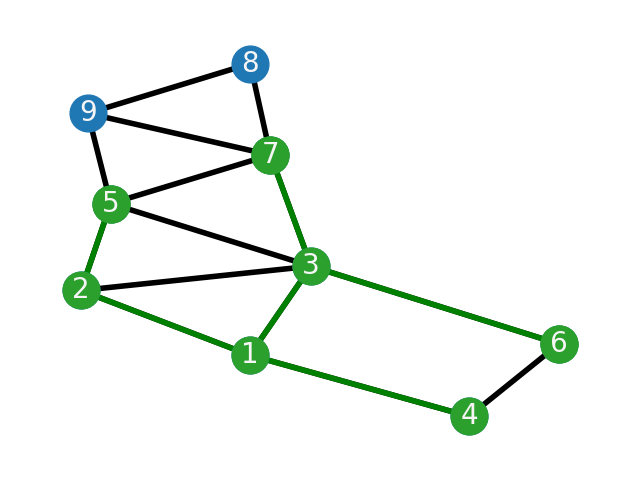
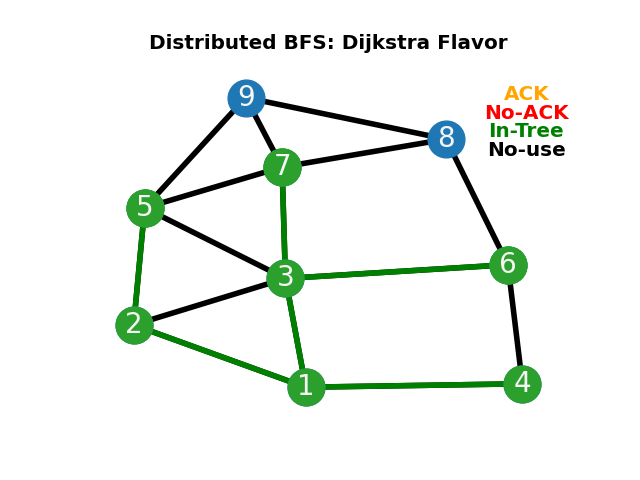
logs better

Changed region(s): [[0.0938, 0.0625, 0.9062, 0.9062], [0.7188, 0.3438, 0.75, 0.4375]]

diff --git a/utils.py b/utils.py
@@ -8,13 +8,8 @@ import networkx as nx
 import os
 import globals
 
-# to-do add reading from file
-# add algorithms, which would color nodes
-# delete or replace img after changing color; maybe a function
-# names of files
 
-number = 0
-
+ColorLegend = {'No used': 1,'ACK': 2, 'No-ACK': 4, 'Tree': 3}
 
 # dodac zmiane nazwy 
 def define_graph(nodes, edges):
@@ -38,17 +33,21 @@ def draw_graph(G : nx.Graph(), blue_nodes, green_nodes, orange_nodes, orange_edg
     nx.draw_networkx_edges(G, pos, edgelist=orange_edges, edge_color="orange", label="ACK", width=4)
     nx.draw_networkx_edges(G, pos, edgelist=red_edges, edge_color="red", label="NACK", width=4)
     nx.draw_networkx_labels(G, pos, font_size=20, font_color="whitesmoke", font_family="sans-serif")
-
     # show
     ax = plt.gca()
     ax.margins(0.08)
     plt.axis("off")
-    plt.tight_layout()
+    #plt.tight_layout()   
+    plt.title("Distributed BFS: Dijkstra Flavor", weight="bold", size='x-large')
+    plt.text(0.9, 0.9, 'ACK', horizontalalignment='center', verticalalignment='center', transform=ax.transAxes, c="orange", animated=True, size='x-large', weight="bold")
+    plt.text(0.9, 0.85, 'No-ACK', horizontalalignment='center', verticalalignment='center', transform=ax.transAxes, c="red", animated=True, size='x-large', weight="bold")
+    plt.text(0.9, 0.80, 'In-Tree', horizontalalignment='center', verticalalignment='center', transform=ax.transAxes, c="green", animated=True, size='x-large', weight="bold")
+    plt.text(0.9, 0.75, 'No-use', horizontalalignment='center', verticalalignment='center', transform=ax.transAxes, c="black", animated=True, size='x-large', weight="bold")
     #plt.show()
-
     # set name of file
     filename = f'{globals.DIRECTORY +  str(len(os.listdir(globals.DIRECTORY)))}.png'
     plt.draw()
+    
     plt.savefig(filename)
     plt.close()
     #make_gif(filenames=filenames)

diff --git a/dijkstra.py b/dijkstra.py
@@ -41,7 +41,7 @@ def dijkstra(G: nx.Graph(), root_id):
     #   remove_edge(e, unknow_edges)
 
     #utils.draw_graph(G, blue_nodes=unknow_nodes, green_nodes=know_nodes, orange_edges=orange_edges, green_edges=BFS,red_edges=red_edges, orange_nodes=orange_nodes)
-    print(edges_in_phase, nodes_in_phase)
+    print(f"Phase: {phase}, nodes: {nodes_in_phase[phase]}, edges: {edges_in_phase[phase]}")
     while len(orange_nodes) != 0:
         know_nodes += orange_nodes
         know_edges += orange_edges
@@ -80,7 +80,7 @@ def dijkstra(G: nx.Graph(), root_id):
         #draw sending ACK with red
         utils.draw_graph(G, blue_nodes=G.nodes, green_nodes=know_nodes, orange_edges=orange_edges, green_edges=BFS, red_edges=red_edges, orange_nodes=orange_nodes)
         phase+= 1
-        print(edges_in_phase, nodes_in_phase)
+        print(f"Phase: {phase}, nodes: {nodes_in_phase[phase]}, edges: {edges_in_phase[phase]}")
     utils.draw_graph(G, blue_nodes=G.nodes, green_nodes=know_nodes, orange_edges=[], green_edges=BFS, red_edges=[], orange_nodes=orange_nodes)
     
 def remove_edge(edge, edges):

diff --git a/main.py b/main.py
@@ -3,15 +3,13 @@ from dijkstra import dijkstra
 import globals
 
 #delete *.png 
-
 clear_folder(globals.DIRECTORY)
 
 nodes = [1, 2, 3, 4, 5, 6, 7, 8, 9]
 root_id = 1 # clear folder when changing root
-edges = [(1, 2), (1,3), (1,4), (2, 5), (3, 5), (5, 7), (3, 7), (4, 6), (3,6), (2,3), (7,8), (7,9), (5,9), (8,9)]
+edges = [(1, 2), (1,3), (1,4), (2, 5), (3, 5), (5, 7), (3, 7), (4, 6), (3,6), (2,3), (7,8), (7,9), (5,9), (8,9), (8,6)]
 
 G = define_graph(nodes=nodes, edges=edges)
 
 dijkstra(G, root_id=root_id)
 make_gif()
-
